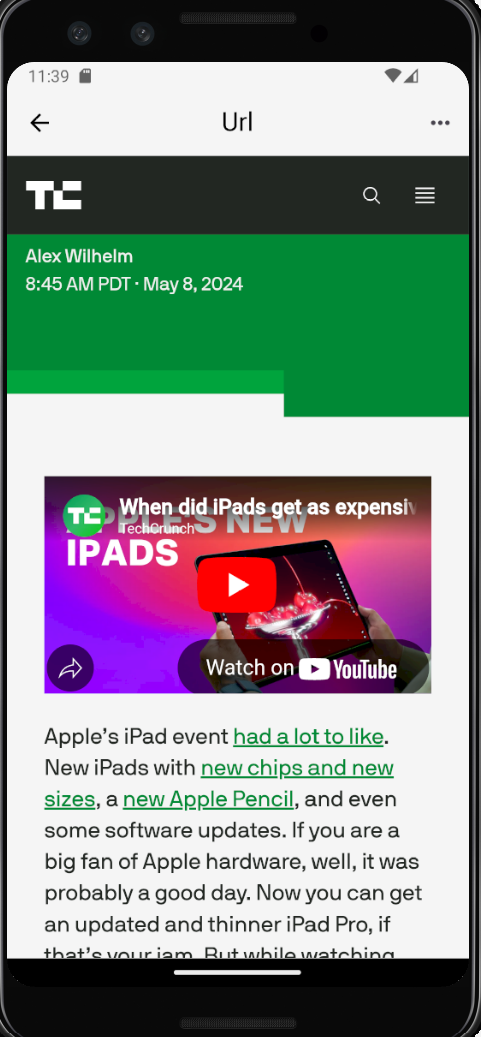
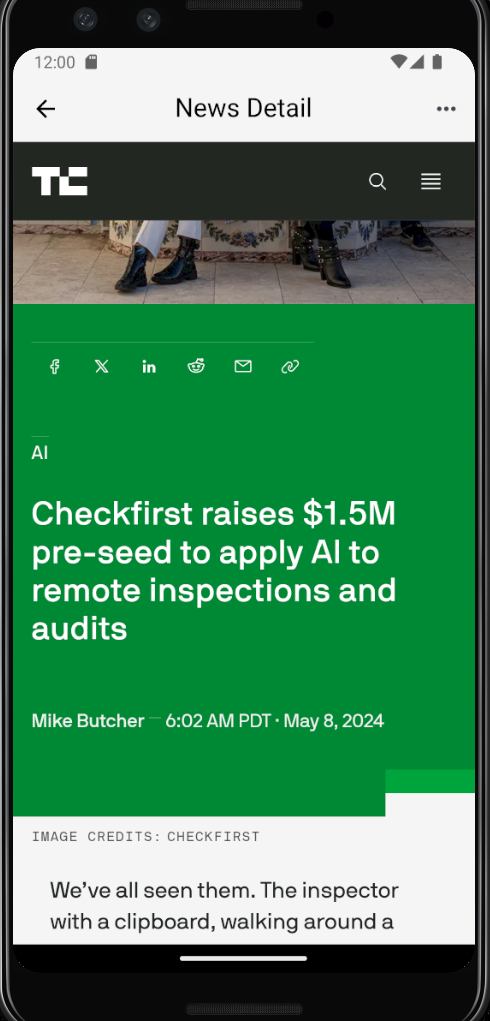
changes in news detail screen

diff --git a/lib/screens/news_detail_screen.dart b/lib/screens/news_detail_screen.dart
@@ -53,7 +53,7 @@ class _NewsdetailScreenState extends State<NewsdetailScreen> {
         backgroundColor: Theme.of(context).scaffoldBackgroundColor,
         elevation: 0,
         centerTitle: true,
-        title: Text("Url", style: TextStyle(color: color)),
+        title: Text("News Detail", style: TextStyle(color: color)),
         actions: [
           IconButton(
             onPressed: () async {
